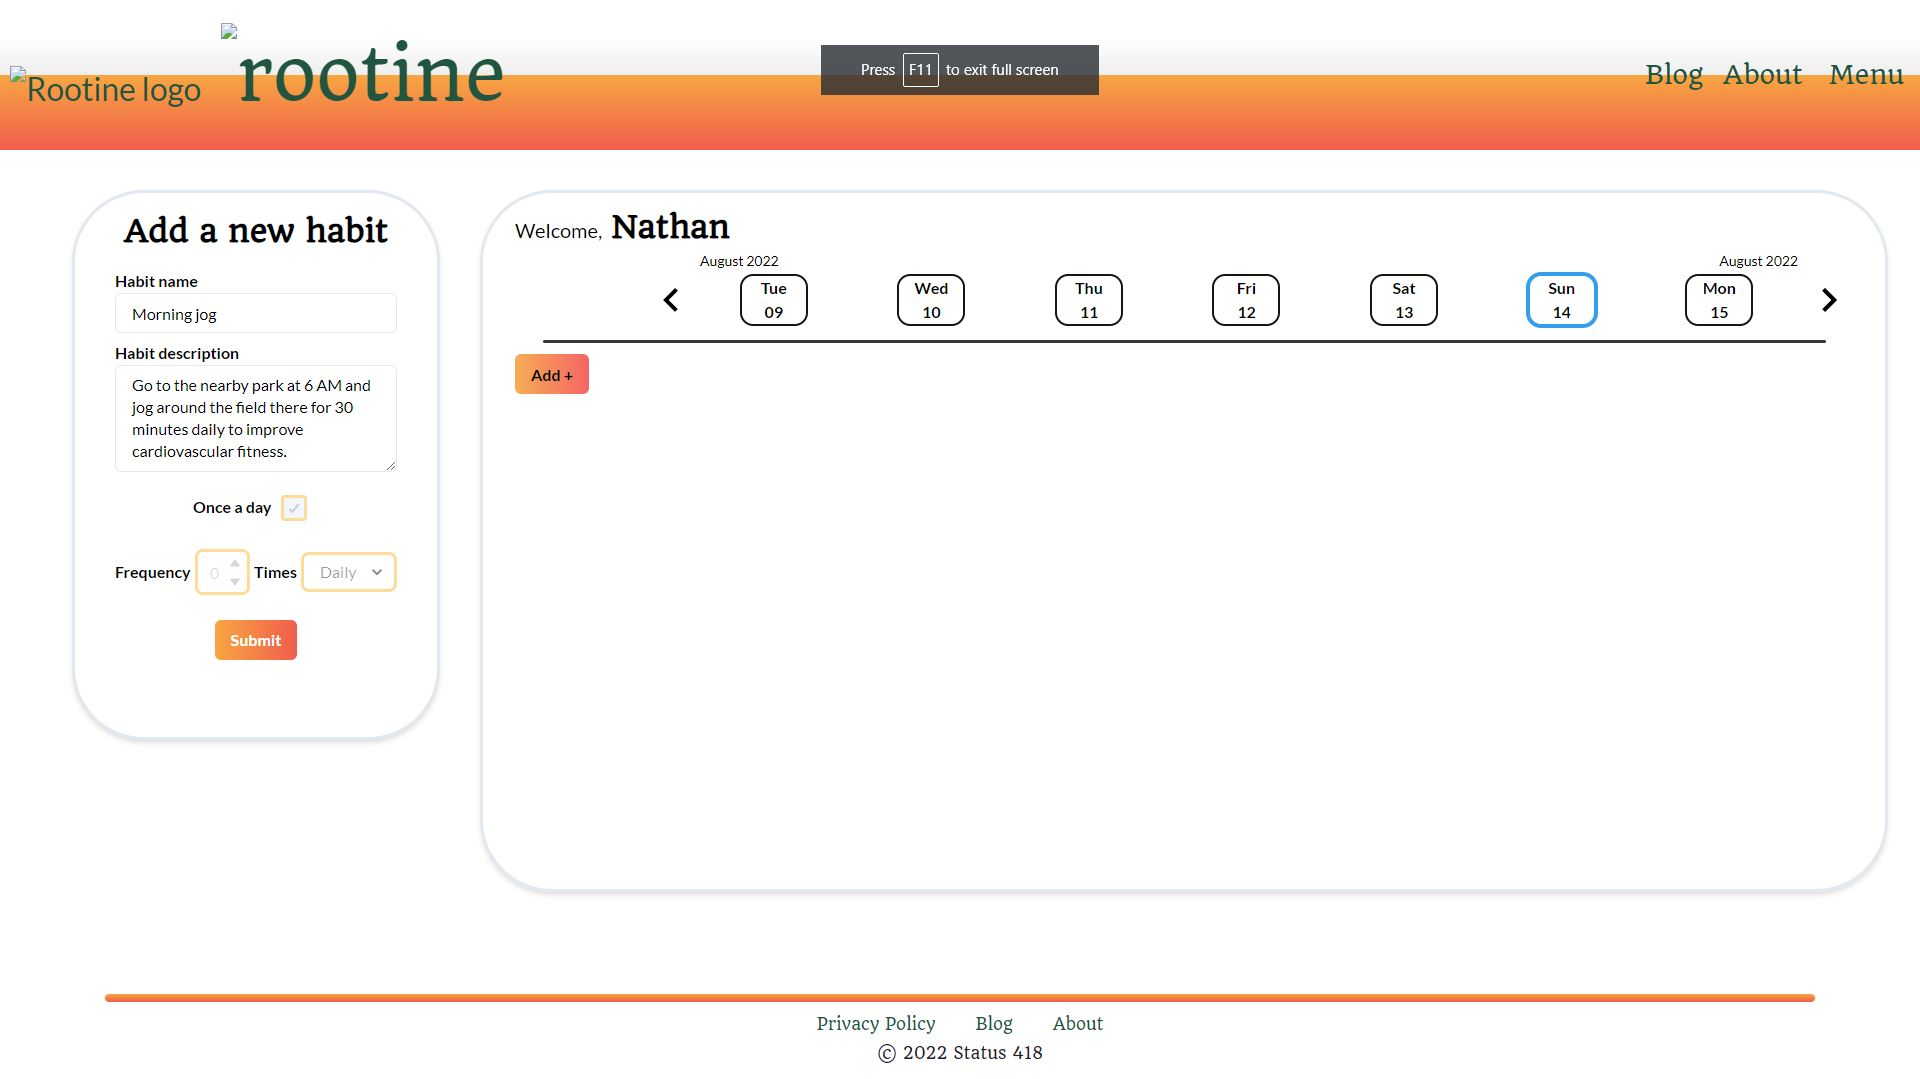
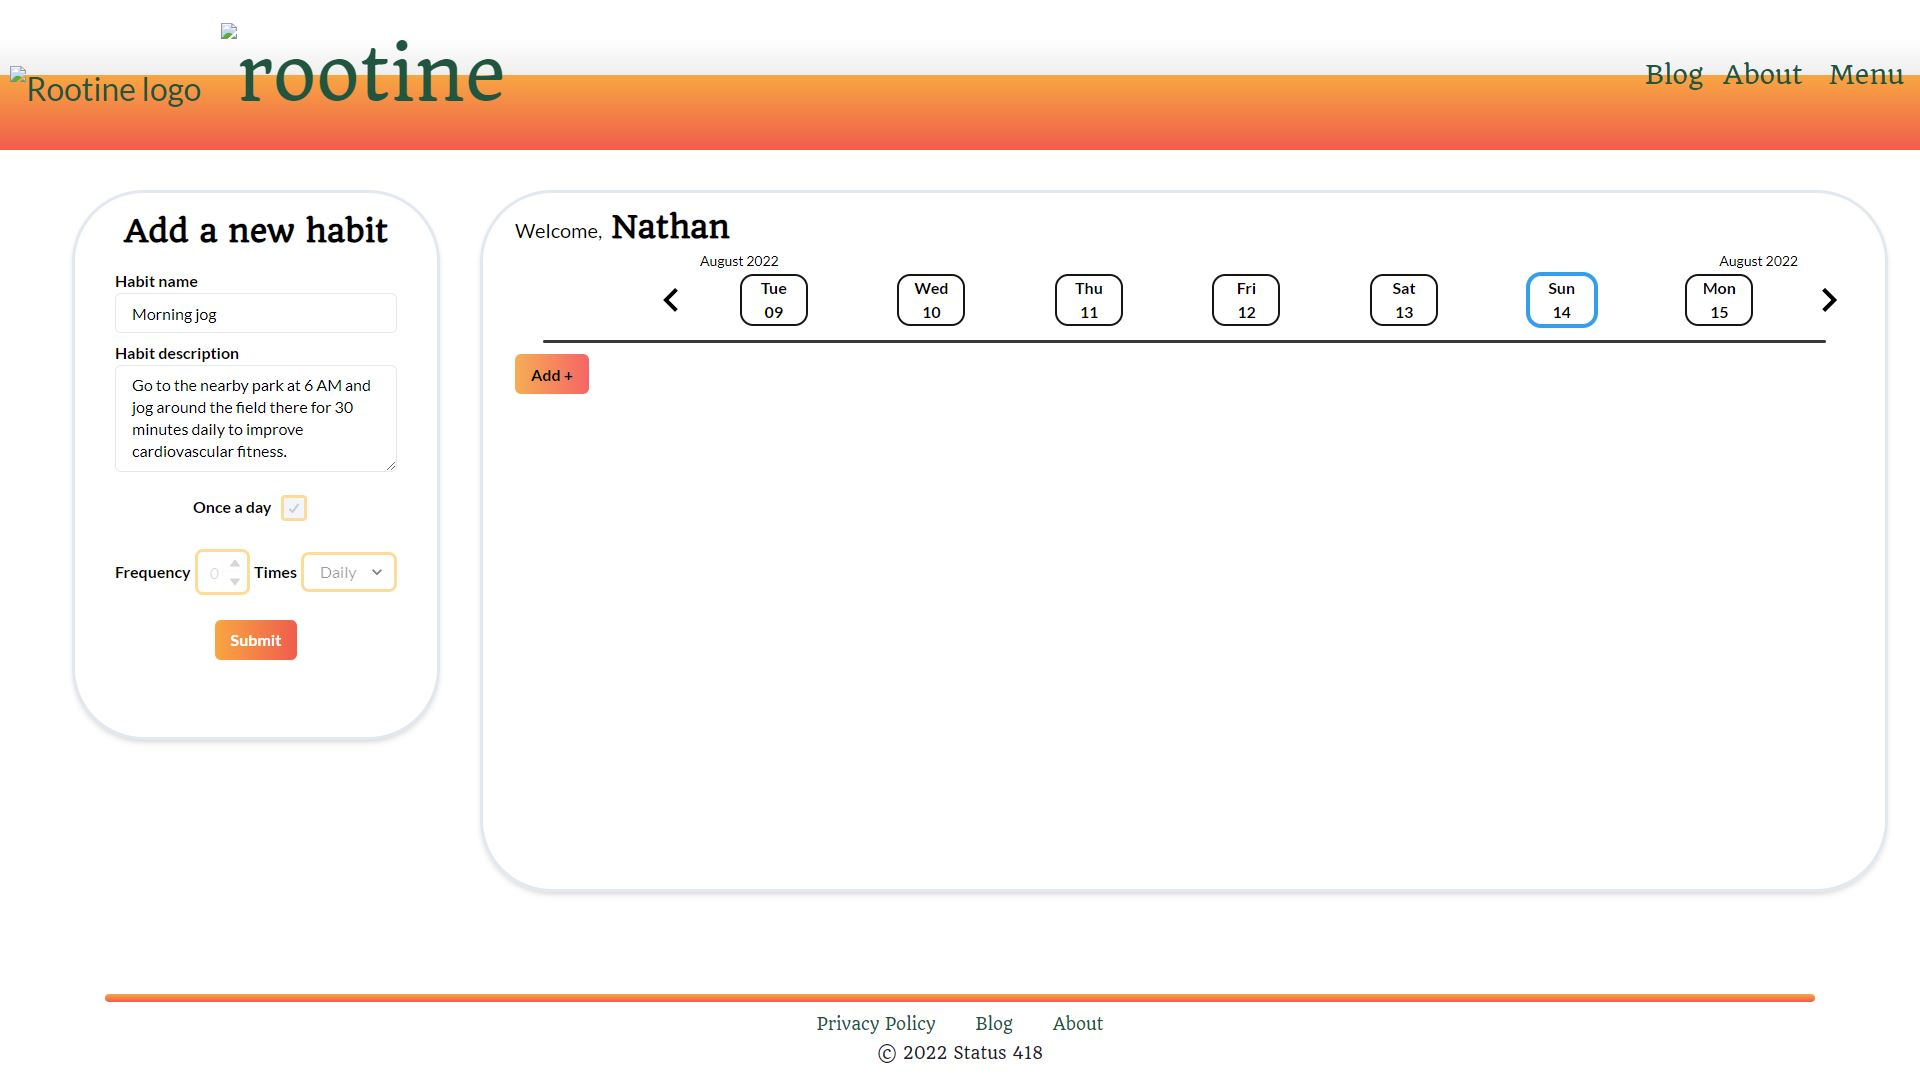
Remove 'press f11 to exit fullscreen' message from screenshots, properly add habit row description

Changed region(s): [[0.4062, 0.0306, 0.5938, 0.0918]]

diff --git a/README.md b/README.md
@@ -98,9 +98,13 @@ This shows 1 weeks' worth of dates, where each date box is synchronised with a c
 <br>
 
 ### Habit rows:
-TODO: <<<<<<<<<<<<<<
+Upon submitting a habit and description, the user will see the new habit immediately appear in the main part of the screen, along with several clickable buttons. Each button, corresponding to the dates in the Calendar bar above, may be clicked to cycle between several colours:
+- White - Incomplete (initial state) - The user is yet to complete the habit that day
+- Green - Complete - The user successfully completed the habit that day
+- Yellow - Skipped - The user did not complete the habit that day for reasons out of their control (e.g. The park was closed)
+- Red - Missed - The user did not complete the habit that day
 
-Description of functionality and usage of habit row component
+This provides a visualisation of the user's track record of sticking to their habits. The database will be update (or create a new entry) with the new status of that habit on that day as each button is clicked.
 
 <details>
 <summary>Habit row preview</summary>
@@ -120,20 +124,6 @@ Description of functionality and usage of details panel component
 ![Detail panel screenshot](rootine/screenshots/DetailsPanel.JPG)
 </details>
 <br>
-
-
-
-
-
-
-
-
-
-
-
-
-
-
 
 
 
